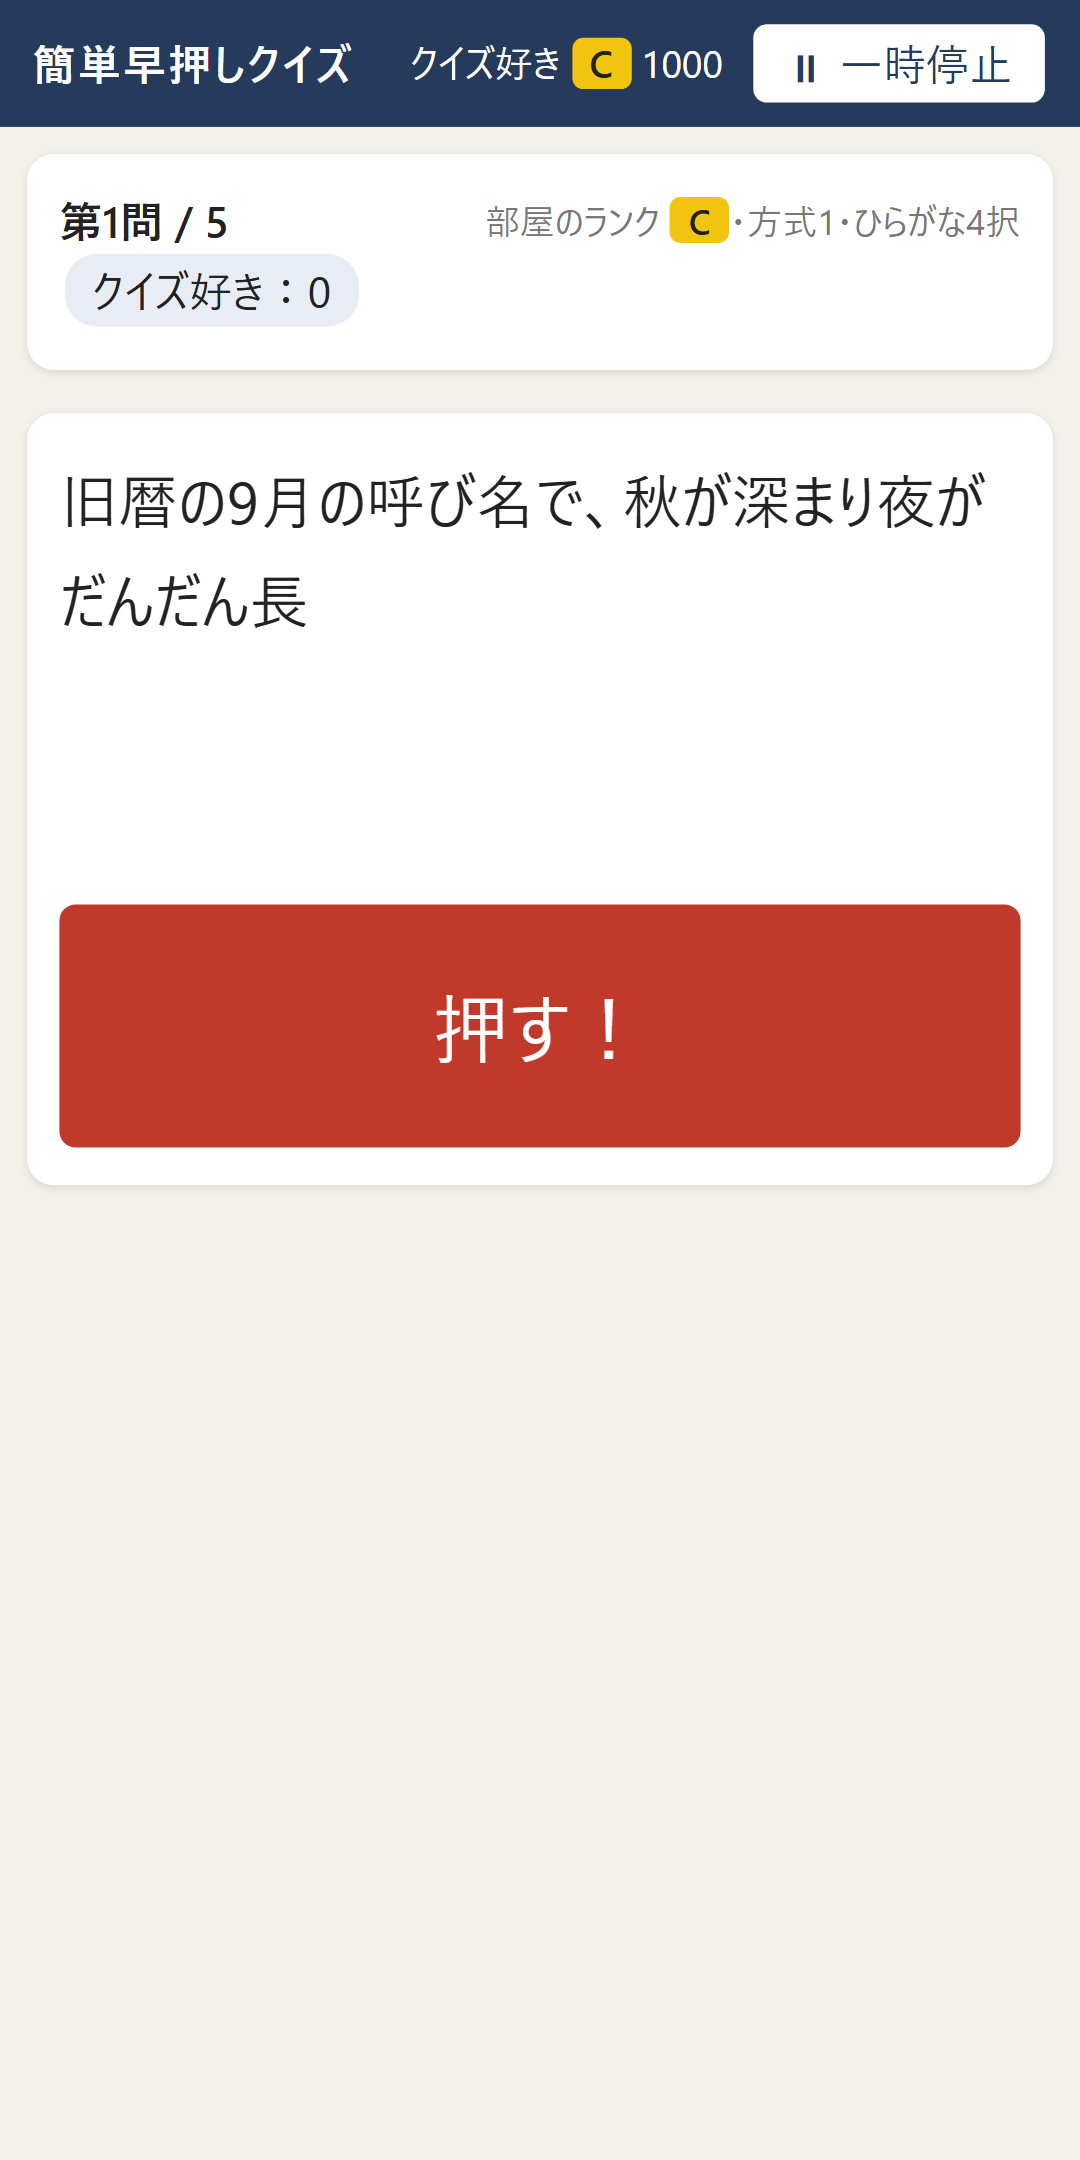
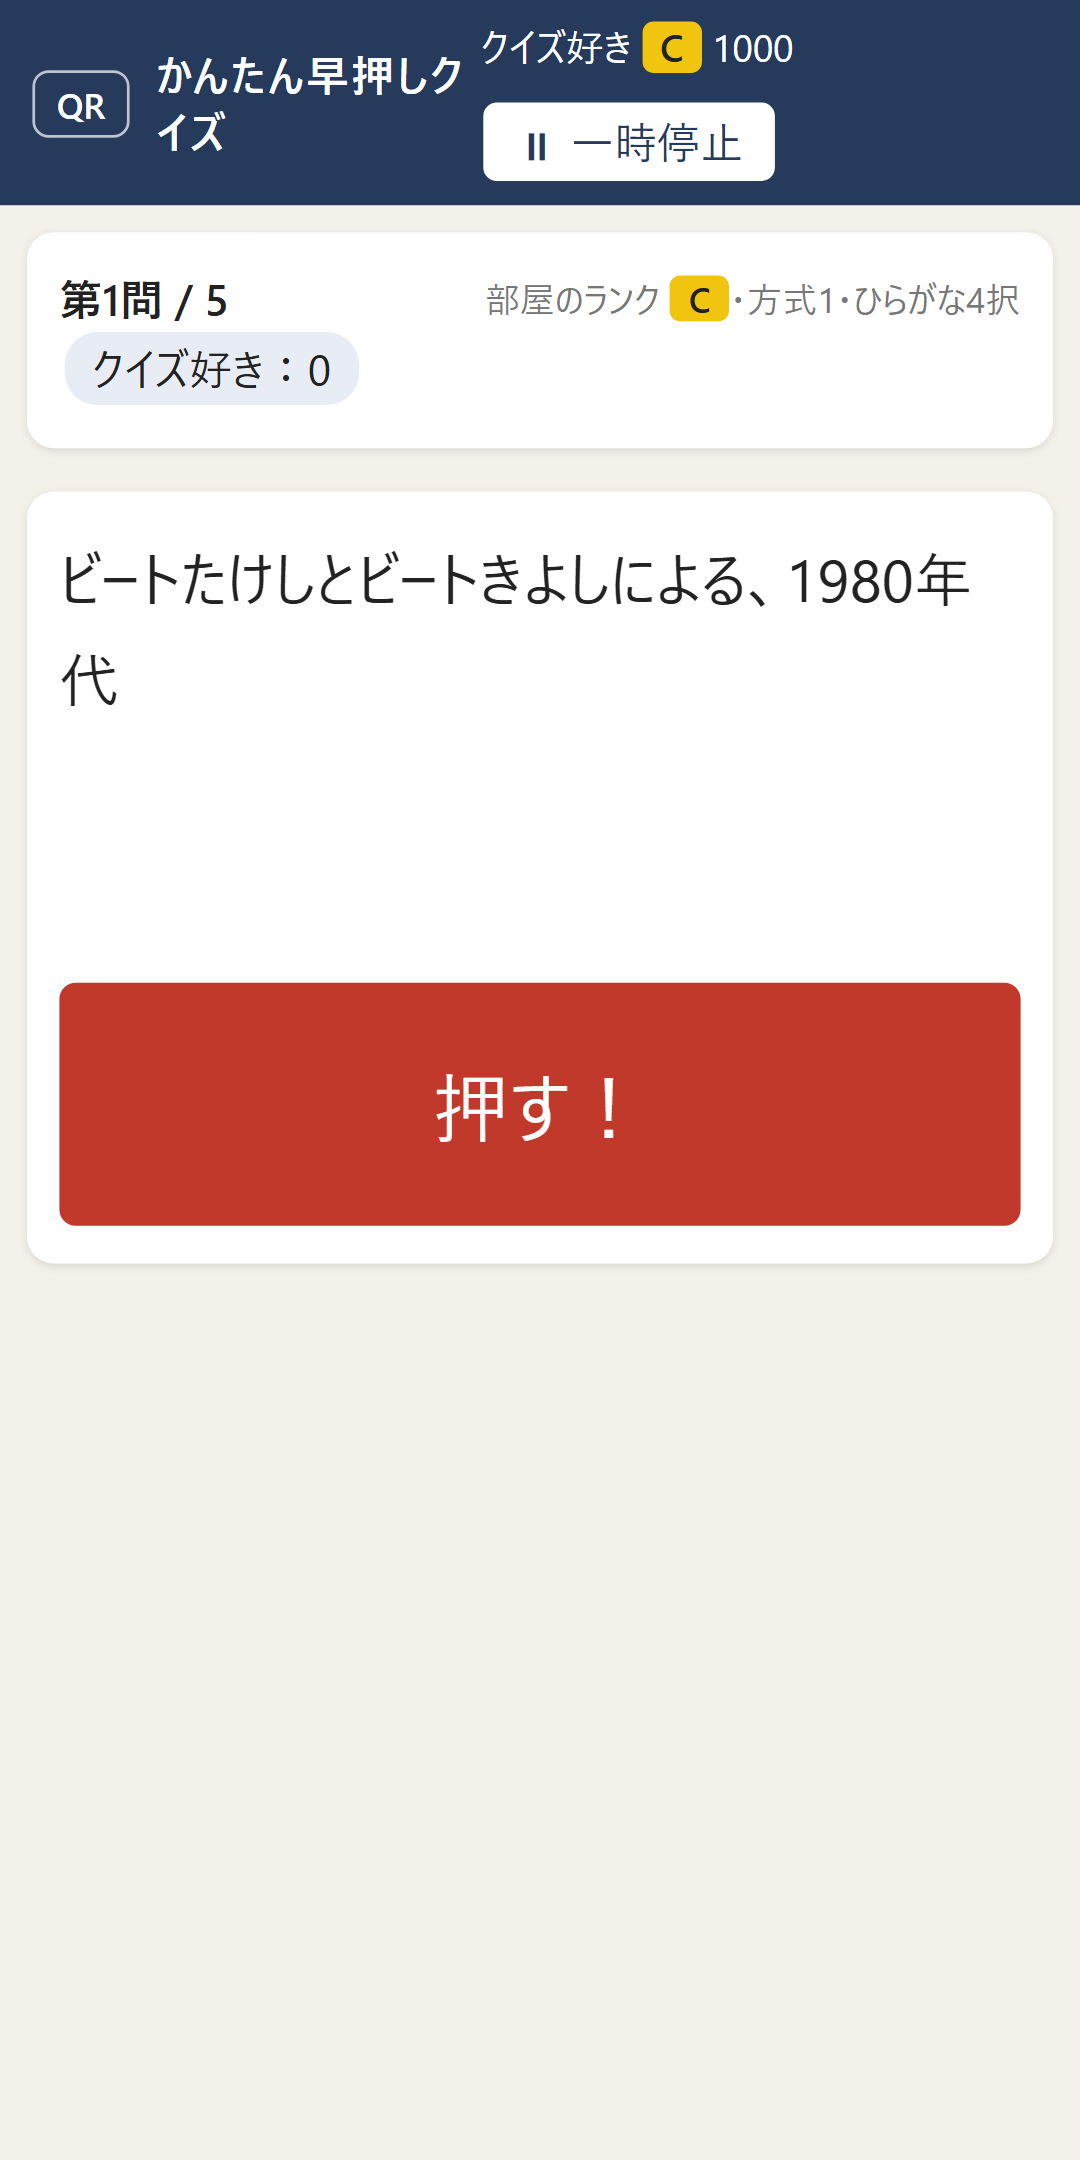
名前の「簡単」をひらがなにそろえた：ブラウザのタブ名・ホーム画面に追加したときのアプリ名（manifest）・今日の10問のシェア文・プライバシーポリシー・ストア掲載文とフィーチャーグラフィック・ストア用スクショ（作り直し）。Googleフォームの名前は変えていないので、それを指す注記は元のまま

Changed region(s): [[0.0, 0.0, 1.0, 0.3412], [0.0306, 0.4032, 0.9778, 0.5894]]

diff --git a/privacy.html b/privacy.html
@@ -3,7 +3,7 @@
 <head>
 <meta charset="utf-8">
 <meta name="viewport" content="width=device-width, initial-scale=1">
-<title>プライバシーポリシー - 簡単早押しクイズ</title>
+<title>プライバシーポリシー - かんたん早押しクイズ</title>
 <link rel="stylesheet" href="style.css">
 <style>
   main { max-width: 760px; margin: 0 auto; padding: 16px; line-height: 1.8; }
@@ -16,7 +16,7 @@
 <main>
 <div class="card">
 <h1 style="font-size:22px;margin-top:0">プライバシーポリシー</h1>
-<p>「簡単早押しクイズ」（以下「本アプリ」）は、ウェブサイトおよび Android アプリとして提供しています。本アプリが扱う情報と、その使いみちは次のとおりです。</p>
+<p>「かんたん早押しクイズ」（以下「本アプリ」）は、ウェブサイトおよび Android アプリとして提供しています。本アプリが扱う情報と、その使いみちは次のとおりです。</p>
 
 <h2>1. 端末に保存する情報と、クラウドに保存する情報</h2>
 <ul>

diff --git a/app.js b/app.js
@@ -868,7 +868,7 @@ function dailyShareText(key, recs, score, mode = "all") {
   const ps = recs.filter((r) => r.ok && r.p != null).map((r) => r.p);
   const avg = ps.length ? Math.round((ps.reduce((a, b) => a + b, 0) / ps.length) * 100) : null;
   const [, mm, dd] = key.split("-");
-  return [`簡単早押しクイズ ${DAILY_MODES[mode].label} ${Number(mm)}/${Number(dd)}`, `${row} ${score}/${DAILY_COUNT}`, avg != null ? `⚡正解した問題は平均${avg}%で押した` : null, currentStreak(mode) > 1 ? `🔥${currentStreak(mode)}日連続` : null, EDITION_URL[mode]].filter(Boolean).join("\n");
+  return [`かんたん早押しクイズ ${DAILY_MODES[mode].label} ${Number(mm)}/${Number(dd)}`, `${row} ${score}/${DAILY_COUNT}`, avg != null ? `⚡正解した問題は平均${avg}%で押した` : null, currentStreak(mode) > 1 ? `🔥${currentStreak(mode)}日連続` : null, EDITION_URL[mode]].filter(Boolean).join("\n");
 }
 function dailyResultHTML(m) {
   const d = client.daily, wasOfficial = d.official;

diff --git a/sw.js b/sw.js
@@ -1,6 +1,6 @@
 // オフラインでも「ひとりで練習」ができるように、サイトのファイルを端末に保存しておく。
 // 問題の追加がすぐ届くよう、ネットにつながるときは常に最新を取りに行き（network-first）、失敗したときだけ保存分を使う。
-const CACHE = "ehq-v7";
+const CACHE = "ehq-v8";
 const FILES = ["./", "index.html", "style.css", "app.js", "cloud.js", "questions.js", "questions2.js", "questions3.js", "manifest.json", "pokemon/", "pokemon/index.html", "pokemon/manifest.json", "stock/", "stock/index.html", "stock/manifest.json", "icons/icon-192.png", "icons/icon-512.png"];
 self.addEventListener("install", (e) => { e.waitUntil(caches.open(CACHE).then((c) => c.addAll(FILES)).then(() => self.skipWaiting())); });
 self.addEventListener("activate", (e) => { e.waitUntil(caches.keys().then((ks) => Promise.all(ks.filter((k) => k !== CACHE).map((k) => caches.delete(k)))).then(() => self.clients.claim())); });

diff --git a/poke/index.html b/poke/index.html
@@ -3,13 +3,13 @@
 <head>
 <meta charset="utf-8">
 <!-- ポケモン版の短いURL（/poke/）。中身は /pokemon/ にあり、ここはそこへ移るだけ（成績・今日の10問・設定は /pokemon/ と共通） -->
-<title>簡単早押しクイズ ポケモン版</title>
+<title>かんたん早押しクイズ ポケモン版</title>
 <meta name="robots" content="noindex">
 <link rel="canonical" href="https://al00000000.github.io/easy-hayaoshi-quiz/pokemon/">
 <meta http-equiv="refresh" content="0; url=../pokemon/">
 <script>location.replace("../pokemon/" + location.search + location.hash);</script>
 </head>
 <body>
-<p><a href="../pokemon/">簡単早押しクイズ ポケモン版へ</a></p>
+<p><a href="../pokemon/">かんたん早押しクイズ ポケモン版へ</a></p>
 </body>
 </html>

diff --git a/se.html b/se.html
@@ -3,7 +3,7 @@
 <head>
 <meta charset="utf-8">
 <meta name="viewport" content="width=device-width, initial-scale=1">
-<title>出題SEの候補 - 簡単早押しクイズ</title>
+<title>出題SEの候補 - かんたん早押しクイズ</title>
 <style>
   body { font-family: system-ui, "Hiragino Sans", "Yu Gothic UI", sans-serif; background: #f3f5f9; color: #222; margin: 0; padding: 24px; }
   h1 { font-size: 20px; margin: 0 0 6px; }

diff --git a/pokemon/index.html b/pokemon/index.html
@@ -3,7 +3,7 @@
 <head>
 <meta charset="utf-8">
 <meta name="viewport" content="width=device-width, initial-scale=1">
-<title>簡単早押しクイズ ポケモン版</title>
+<title>かんたん早押しクイズ ポケモン版</title>
 <link rel="stylesheet" href="../style.css">
 <link rel="manifest" href="manifest.json">
 <meta name="theme-color" content="#263a5c">

diff --git a/stock/index.html b/stock/index.html
@@ -3,7 +3,7 @@
 <head>
 <meta charset="utf-8">
 <meta name="viewport" content="width=device-width, initial-scale=1">
-<title>簡単早押しクイズ 株式版</title>
+<title>かんたん早押しクイズ 株式版</title>
 <link rel="stylesheet" href="../style.css">
 <link rel="manifest" href="manifest.json">
 <meta name="theme-color" content="#263a5c">

diff --git a/index.html b/index.html
@@ -3,7 +3,7 @@
 <head>
 <meta charset="utf-8">
 <meta name="viewport" content="width=device-width, initial-scale=1">
-<title>簡単早押しクイズ</title>
+<title>かんたん早押しクイズ</title>
 <link rel="stylesheet" href="style.css">
 <link rel="manifest" href="manifest.json">
 <meta name="theme-color" content="#263a5c">

diff --git a/tools/make_review_handoff.py b/tools/make_review_handoff.py
@@ -50,7 +50,7 @@ for i, q in enumerate(qs, 1):
     rows.append(f"| {num} | {text} | {cell(q['answer'])} | {q['reading']} | {cell('、'.join(q.get('accept', [])))} |")
 
 today = date.today().isoformat()
-doc = f"""# 簡単早押しクイズ「{short}」の問題見直し 引き継ぎ（{today} 作成・{len(qs)}問）
+doc = f"""# かんたん早押しクイズ「{short}」の問題見直し 引き継ぎ（{today} 作成・{len(qs)}問）
 
 このファイルを claude.ai の新しいチャットに添付（またはそのまま貼り付け）して、「これを読んで、問題の見直しを手伝って」と送る。
 
@@ -63,7 +63,7 @@ doc = f"""# 簡単早押しクイズ「{short}」の問題見直し 引き継ぎ
 実際のファイルの書き換えは、このチャットではなく、別の Claude Code（PC側）が行う。だから、このチャットの最終成果物は「修正のまとめ」（書式は下に指定）。
 
 ### サイトの概要
-- 簡単早押しクイズ（株式版：https://al00000000.github.io/easy-hayaoshi-quiz/stock/ ）。株にくわしくないライト層も遊ぶ想定。
+- かんたん早押しクイズ（株式版：https://al00000000.github.io/easy-hayaoshi-quiz/stock/ ）。株にくわしくないライト層も遊ぶ想定。
 - 問題文が1文字ずつ流れ、早押しして答える。答えは「ひらがな4択を1文字ずつ選ぶ」か「音声入力」。
   そのため **読み（ひらがな）が正しいこと**、**答えが1つに決まること** が大事。
 - 答えの判定は甘め（誤って×にしない方に倒す）。表記ゆれ（株式会社の有無、英字とカナ）は「別解」に入れる。

diff --git a/tools/make_feature_graphic.py b/tools/make_feature_graphic.py
@@ -9,9 +9,9 @@ for i in range(0, W, 48): d.line([(i, 0), (i - 200, H)], fill=(44, 66, 104), wid
 icon = Image.open(root / "icons/maskable-512.png").resize((300, 300), Image.LANCZOS)
 mask = Image.new("L", icon.size, 0); ImageDraw.Draw(mask).ellipse([0, 0, 300, 300], fill=255)
 im.paste(icon, (60, 100), mask)
-fb = ImageFont.truetype("C:/Windows/Fonts/YuGothB.ttc", 66)
+fb = ImageFont.truetype("C:/Windows/Fonts/YuGothB.ttc", 56)
 fm = ImageFont.truetype("C:/Windows/Fonts/YuGothB.ttc", 30)
-d.text((395, 160), "簡単早押しクイズ", font=fb, fill=(255, 255, 255))
+d.text((395, 160), "かんたん早押しクイズ", font=fb, fill=(255, 255, 255))
 d.text((398, 265), "流れる問題文を、誰よりも早く。", font=fm, fill=(241, 196, 15))
 d.text((398, 315), "ひとりで練習／部屋番号で友だちと対戦", font=fm, fill=(230, 235, 245))
 im.save(root / "store/feature-graphic.png")

diff --git a/store/README.md b/store/README.md
@@ -16,7 +16,7 @@ Android版は、公開中のサイトをそのまま包む「TWA（Trusted Web A
 
 ## ストアの掲載情報
 
-- **アプリ名（30文字以内）**：簡単早押しクイズ
+- **アプリ名（30文字以内）**：かんたん早押しクイズ
 - **カテゴリ**：ゲーム ＞ 雑学（Trivia）
 - **簡単な説明（80文字以内）**：
   問題文が1文字ずつ流れる早押しクイズ。ひとりで練習も、友だちと対戦もできます。
